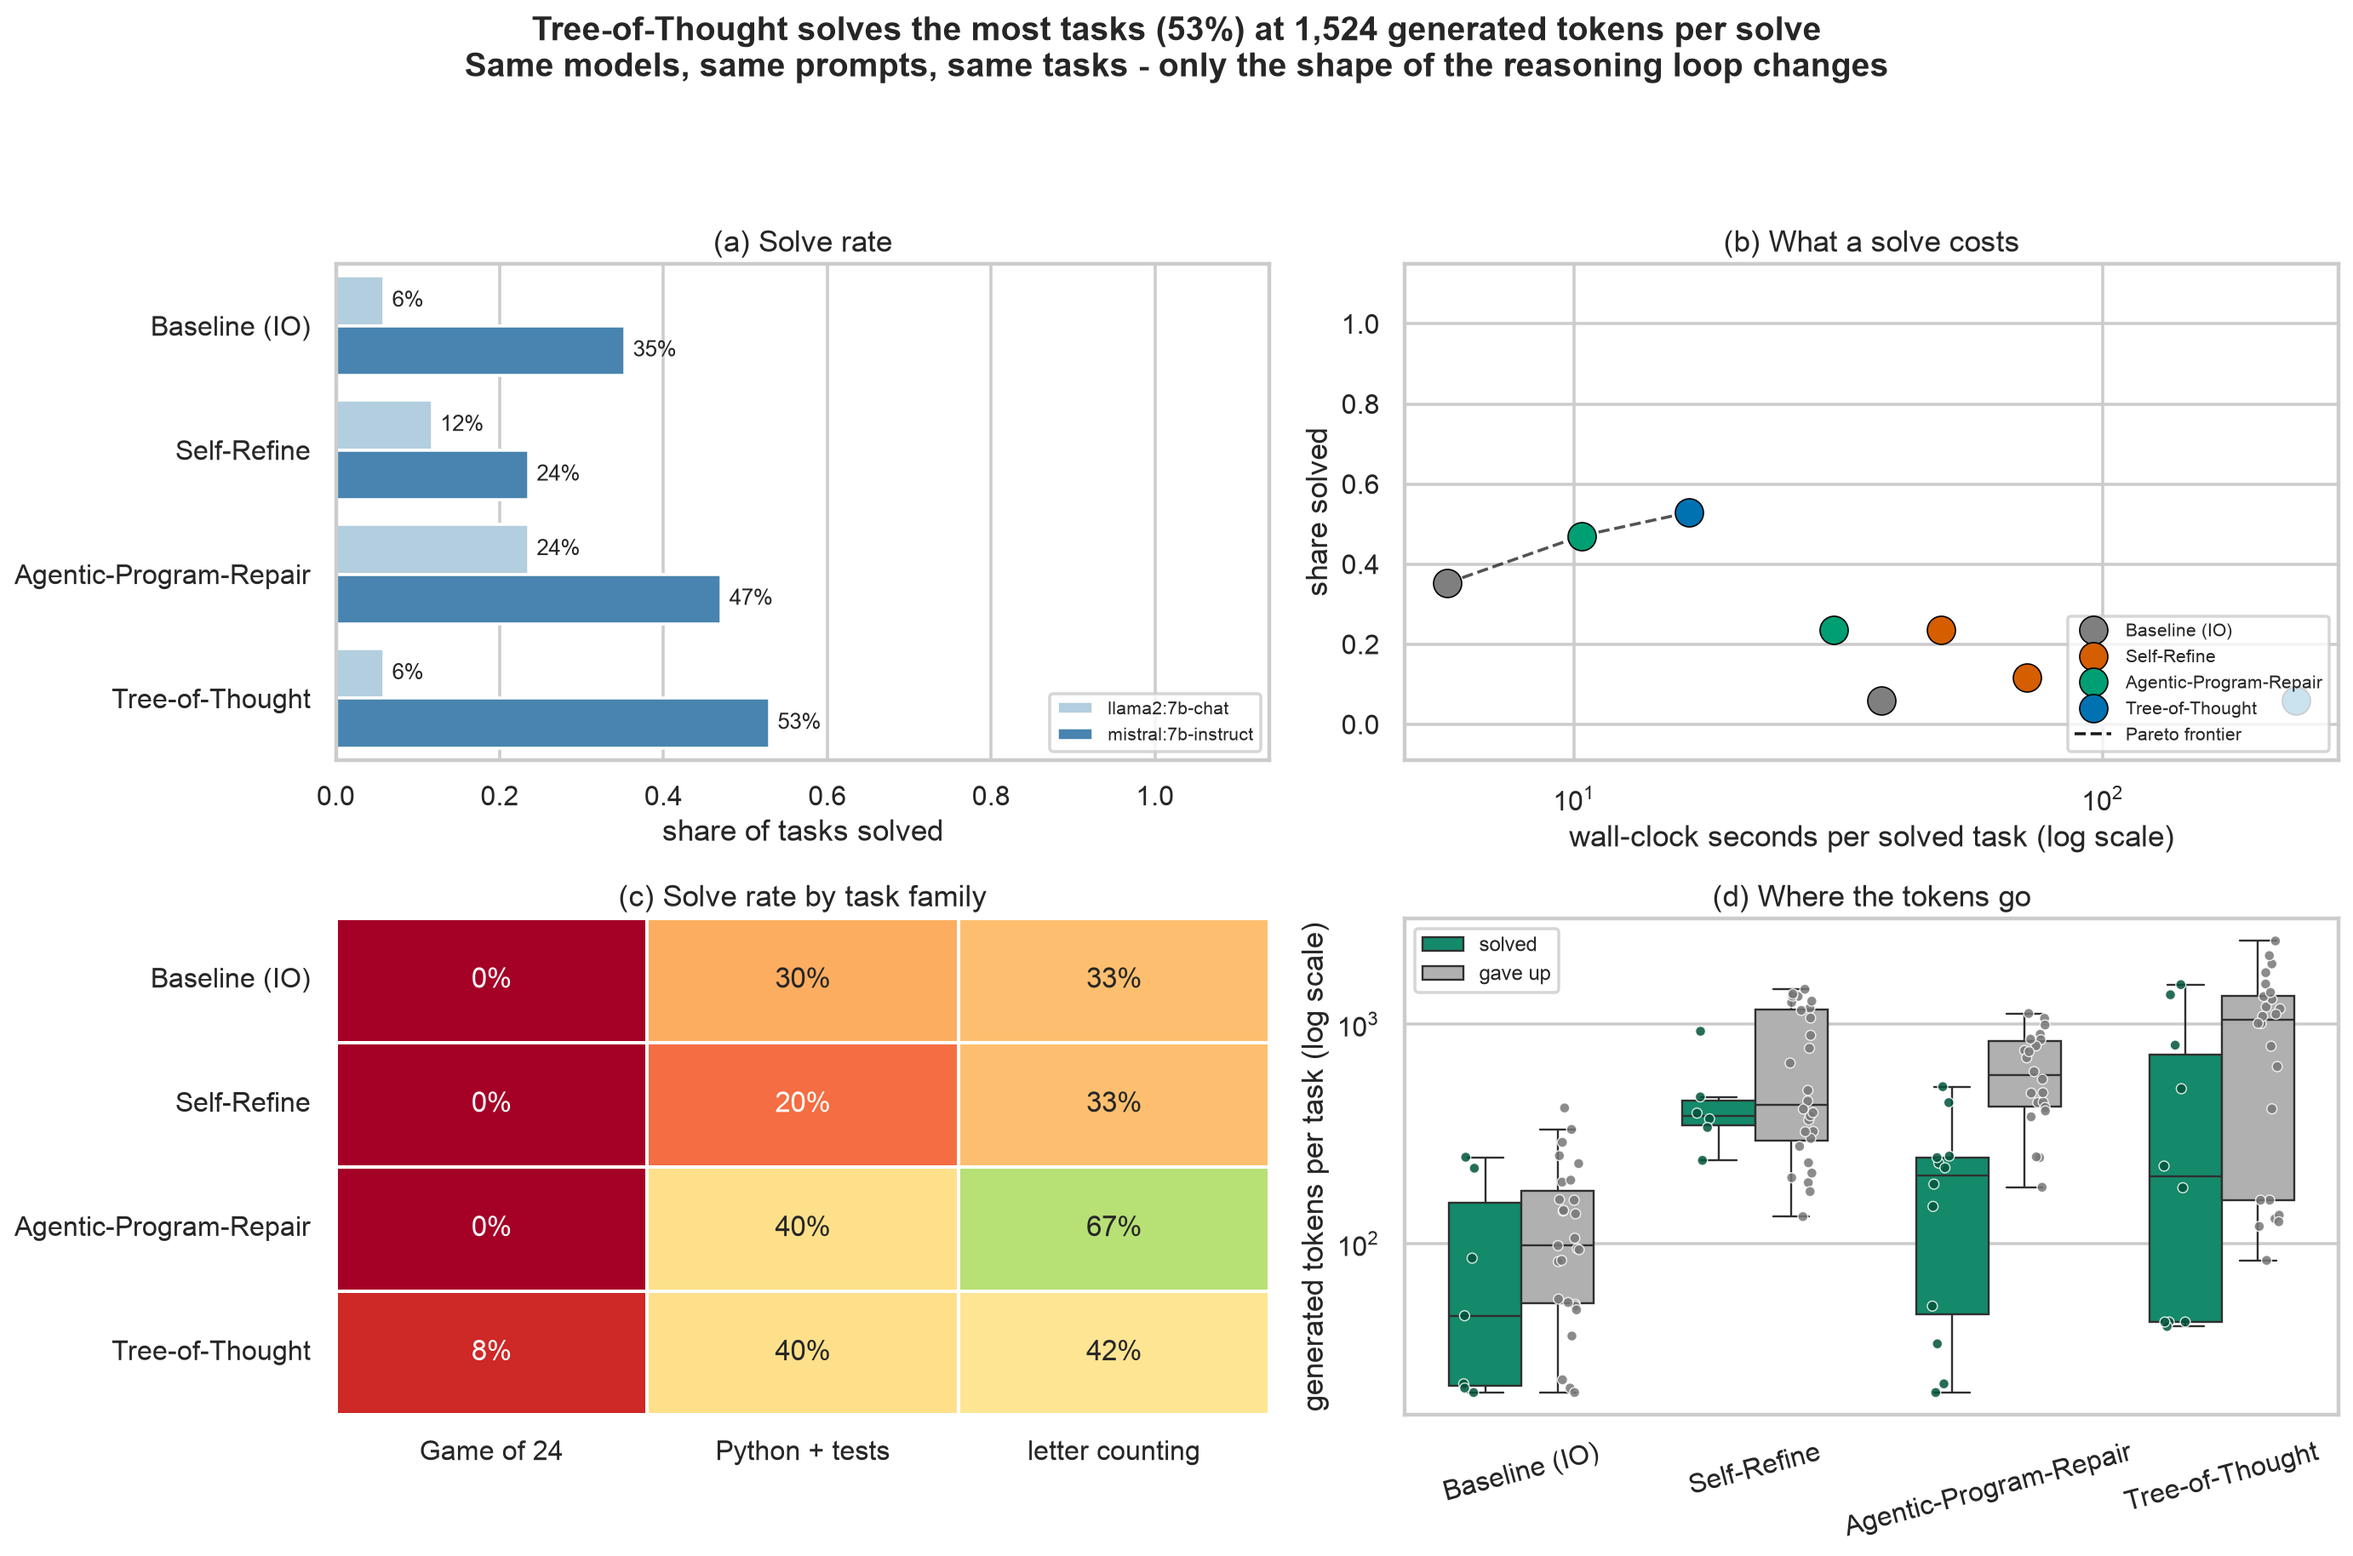
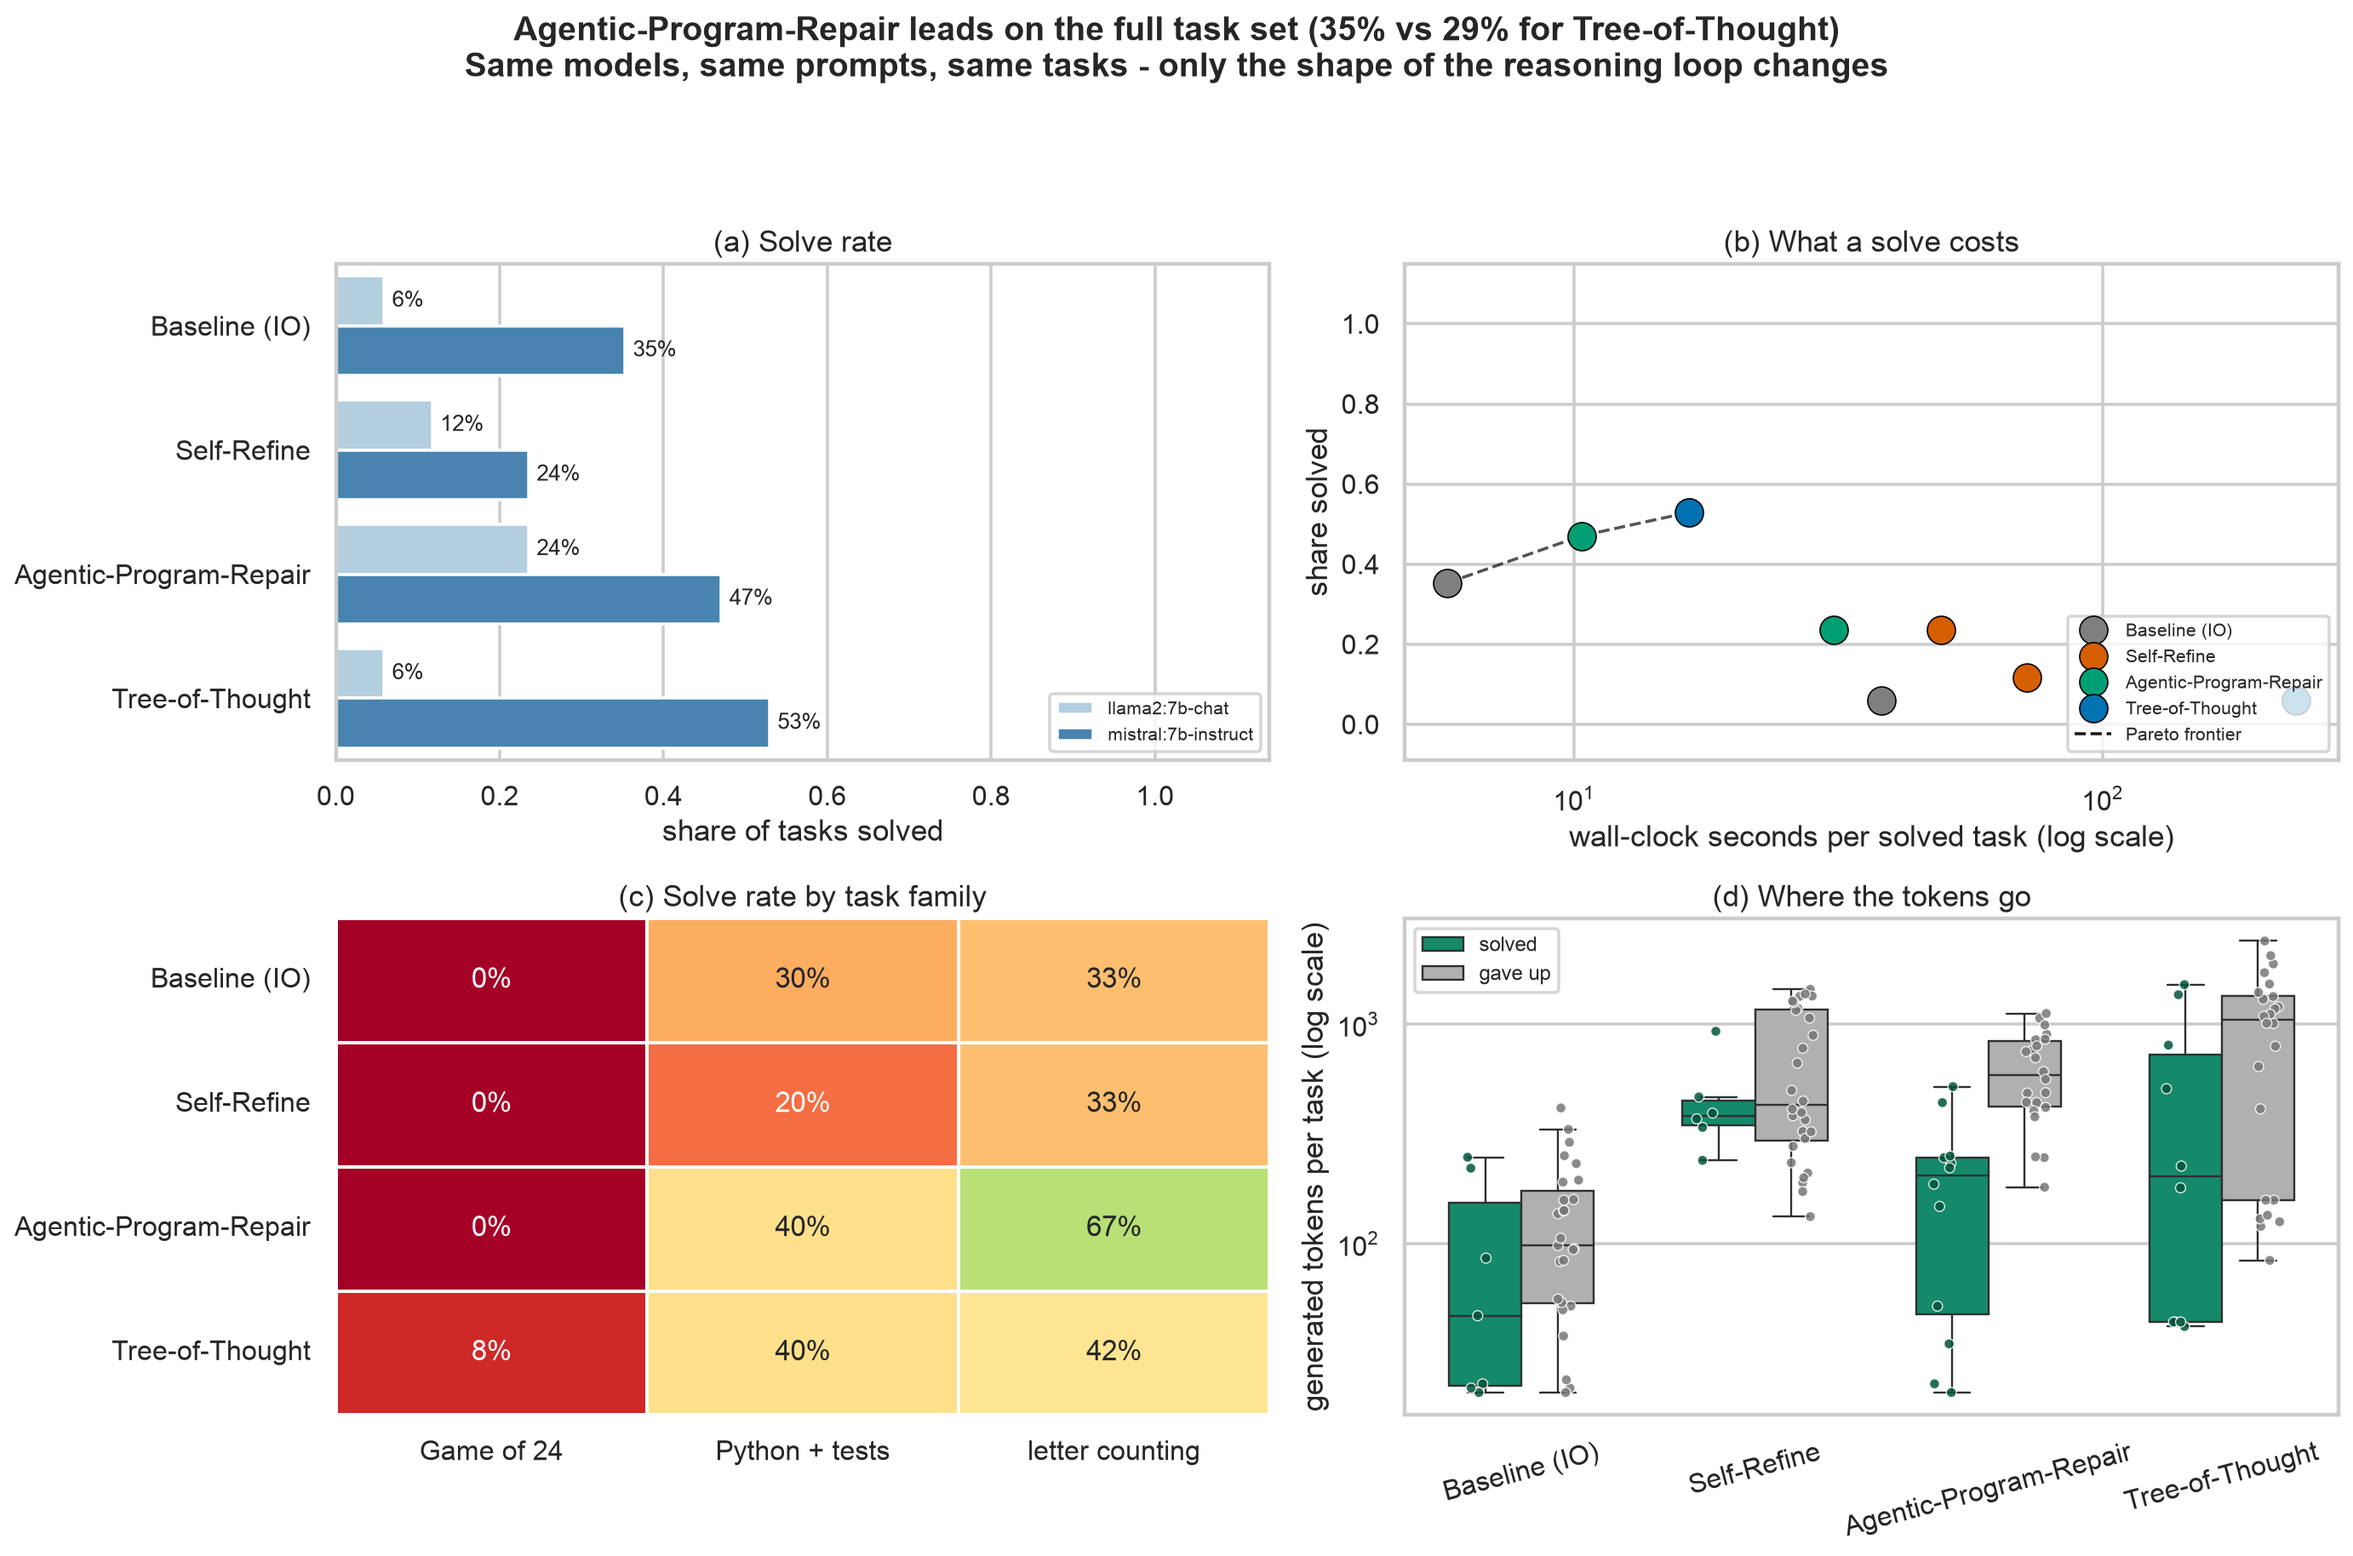
Fix headline to compare pooled rates; regenerate figures and tables

diff --git a/plot.py b/plot.py
@@ -60,13 +60,17 @@ def pareto(g, xcol):
 
 
 def headline(g):
-    """Say what the data actually shows rather than asserting a conclusion up front."""
-    best = g.sort_values(["rate", "gen_tokens_per_solve"], ascending=[False, True]).iloc[0]
-    rate, tok = best["rate"], best["gen_tokens_per_solve"]
-    if pd.isna(tok):
-        return f"{best['label']} solves the most tasks, but nothing was solved cheaply"
-    return (f"{best['label']} solves the most tasks ({rate:.0%}) "
-            f"at {tok:,.0f} generated tokens per solve")
+    """Say what the data actually shows. Compares methods on their pooled runs across models,
+    not the single best cell, so a method that wins one column cannot claim the headline."""
+    pooled = g.groupby("label").agg(ok=("solved", "sum"), runs=("runs", "sum"),
+                                    tok=("gen_tokens", "sum"))
+    pooled["rate"] = pooled["ok"] / pooled["runs"]
+    pooled = pooled.sort_values(["rate", "tok"], ascending=[False, True])
+    best, runner = pooled.index[0], pooled.index[1]
+    b, r = pooled.loc[best], pooled.loc[runner]
+    lead = "leads" if b["rate"] > r["rate"] else "ties"
+    return (f"{best} {lead} on the full task set "
+            f"({b['rate']:.0%} vs {r['rate']:.0%} for {runner})")
 
 
 def panels(df, g, metric, out):
